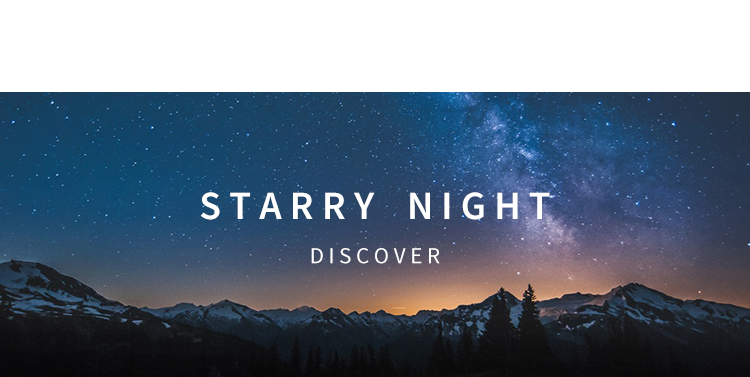
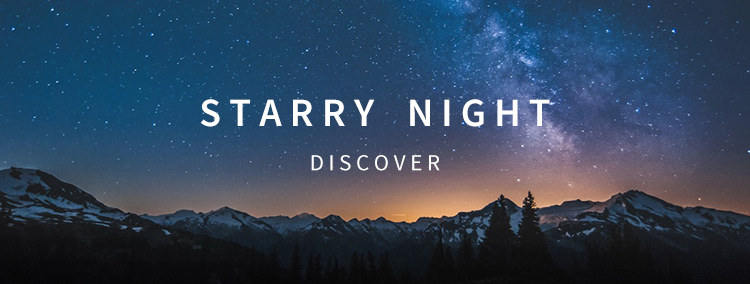
Fixed Image and stop tableview from scrolling to top

diff --git a/Tomahawk/DiscoverViewController.m b/Tomahawk/DiscoverViewController.m
@@ -40,8 +40,7 @@
         songsHeader.textColor = [UIColor whiteColor];
         [songsHeader setTranslatesAutoresizingMaskIntoConstraints:NO];
         [_scrollView addSubview:songsHeader];
-        imageView = [[UIImageView alloc]initWithFrame:CGRectMake(-10, -22, CGRectGetWidth(self.view.frame)+20, 140.0)];
-        [imageView setContentMode:UIViewContentModeScaleAspectFill];
+        imageView = [[UIImageView alloc]initWithFrame:CGRectMake(0, 0, CGRectGetWidth(self.view.frame), 140.0)];
         [self.scrollView addSubview:imageView];
         [imageView setImage:[UIImage imageNamed:@"12.png"]];
         //Create Invisible See All Button to Act as A Presser

diff --git a/Tomahawk/MyMusicViewController.m b/Tomahawk/MyMusicViewController.m
@@ -110,6 +110,14 @@
 
 #pragma mark - Table View
 
+- (void)killScroll
+{
+    CGPoint offset = _tableView.contentOffset;
+    offset.x = 0;
+    offset.y = 50;
+    [_tableView setContentOffset:offset animated:NO];
+}
+
 
 
 -(NSInteger)numberOfSectionsInTableView:(UITableView *)tableView{
@@ -205,6 +213,9 @@
 }
 
 -(UITableViewCell *)tableView:(UITableView *)tableView cellForRowAtIndexPath:(NSIndexPath *)indexPath{
+    if (indexPath.row == 0 && indexPath.section == 0) {
+        [self killScroll];
+    }
     //Turn off retarded stuff
     [[self tableView]setAlwaysBounceVertical:NO];
     [[self tableView]setBounces:NO];
